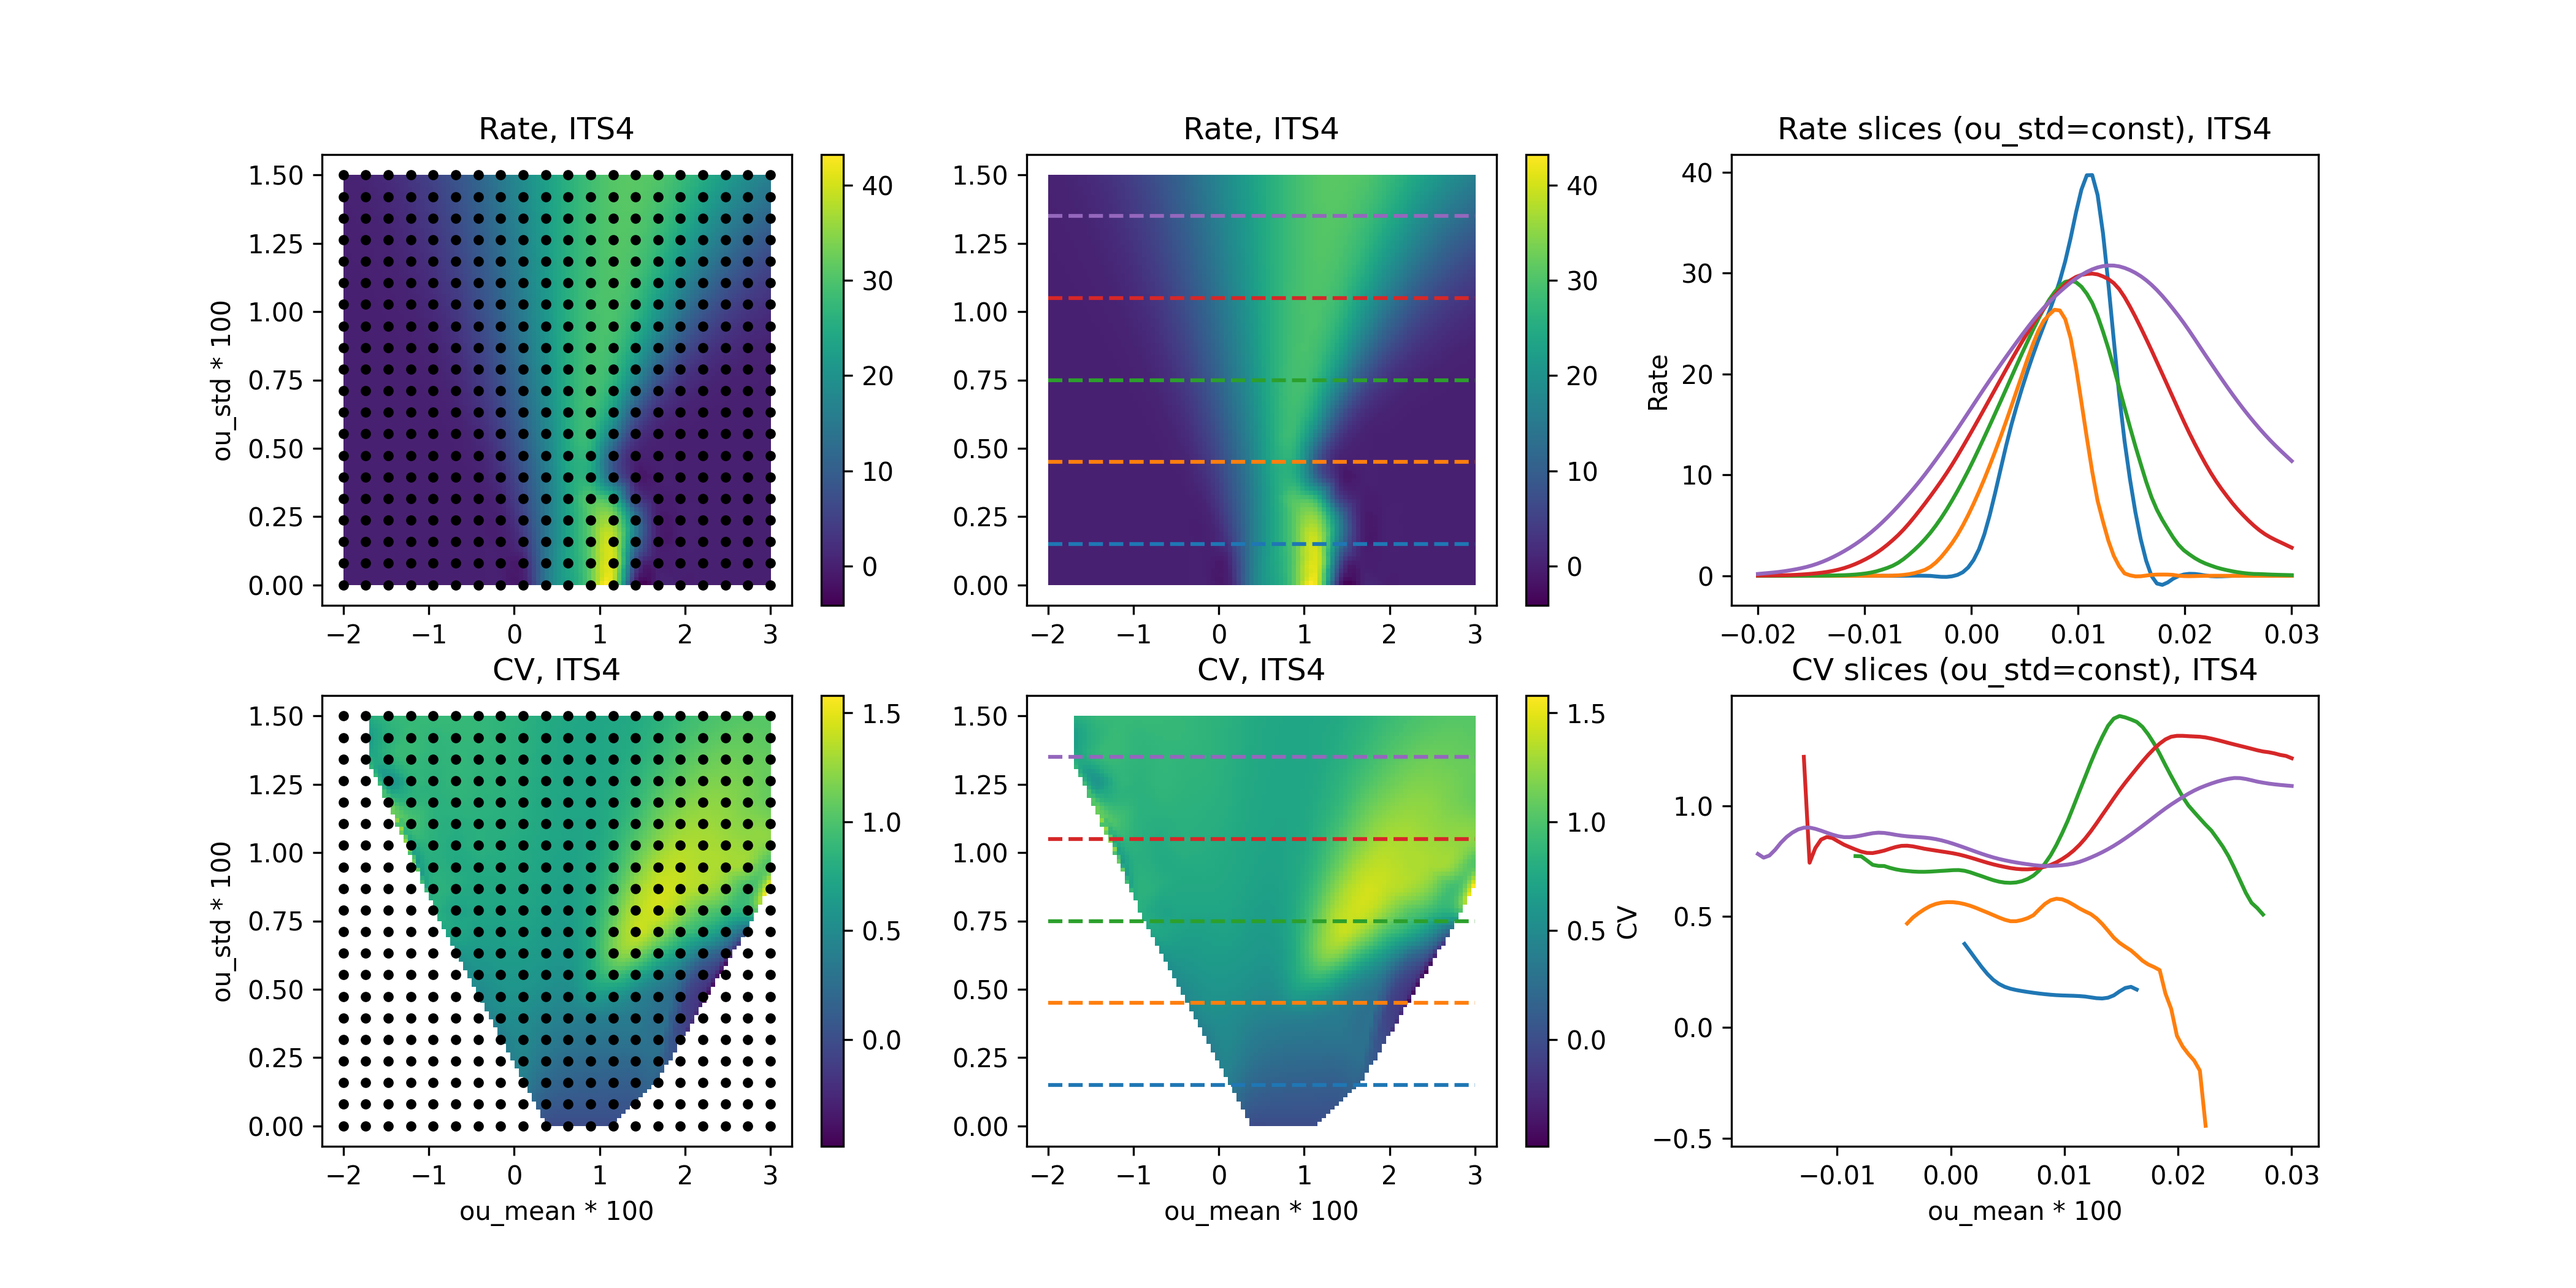
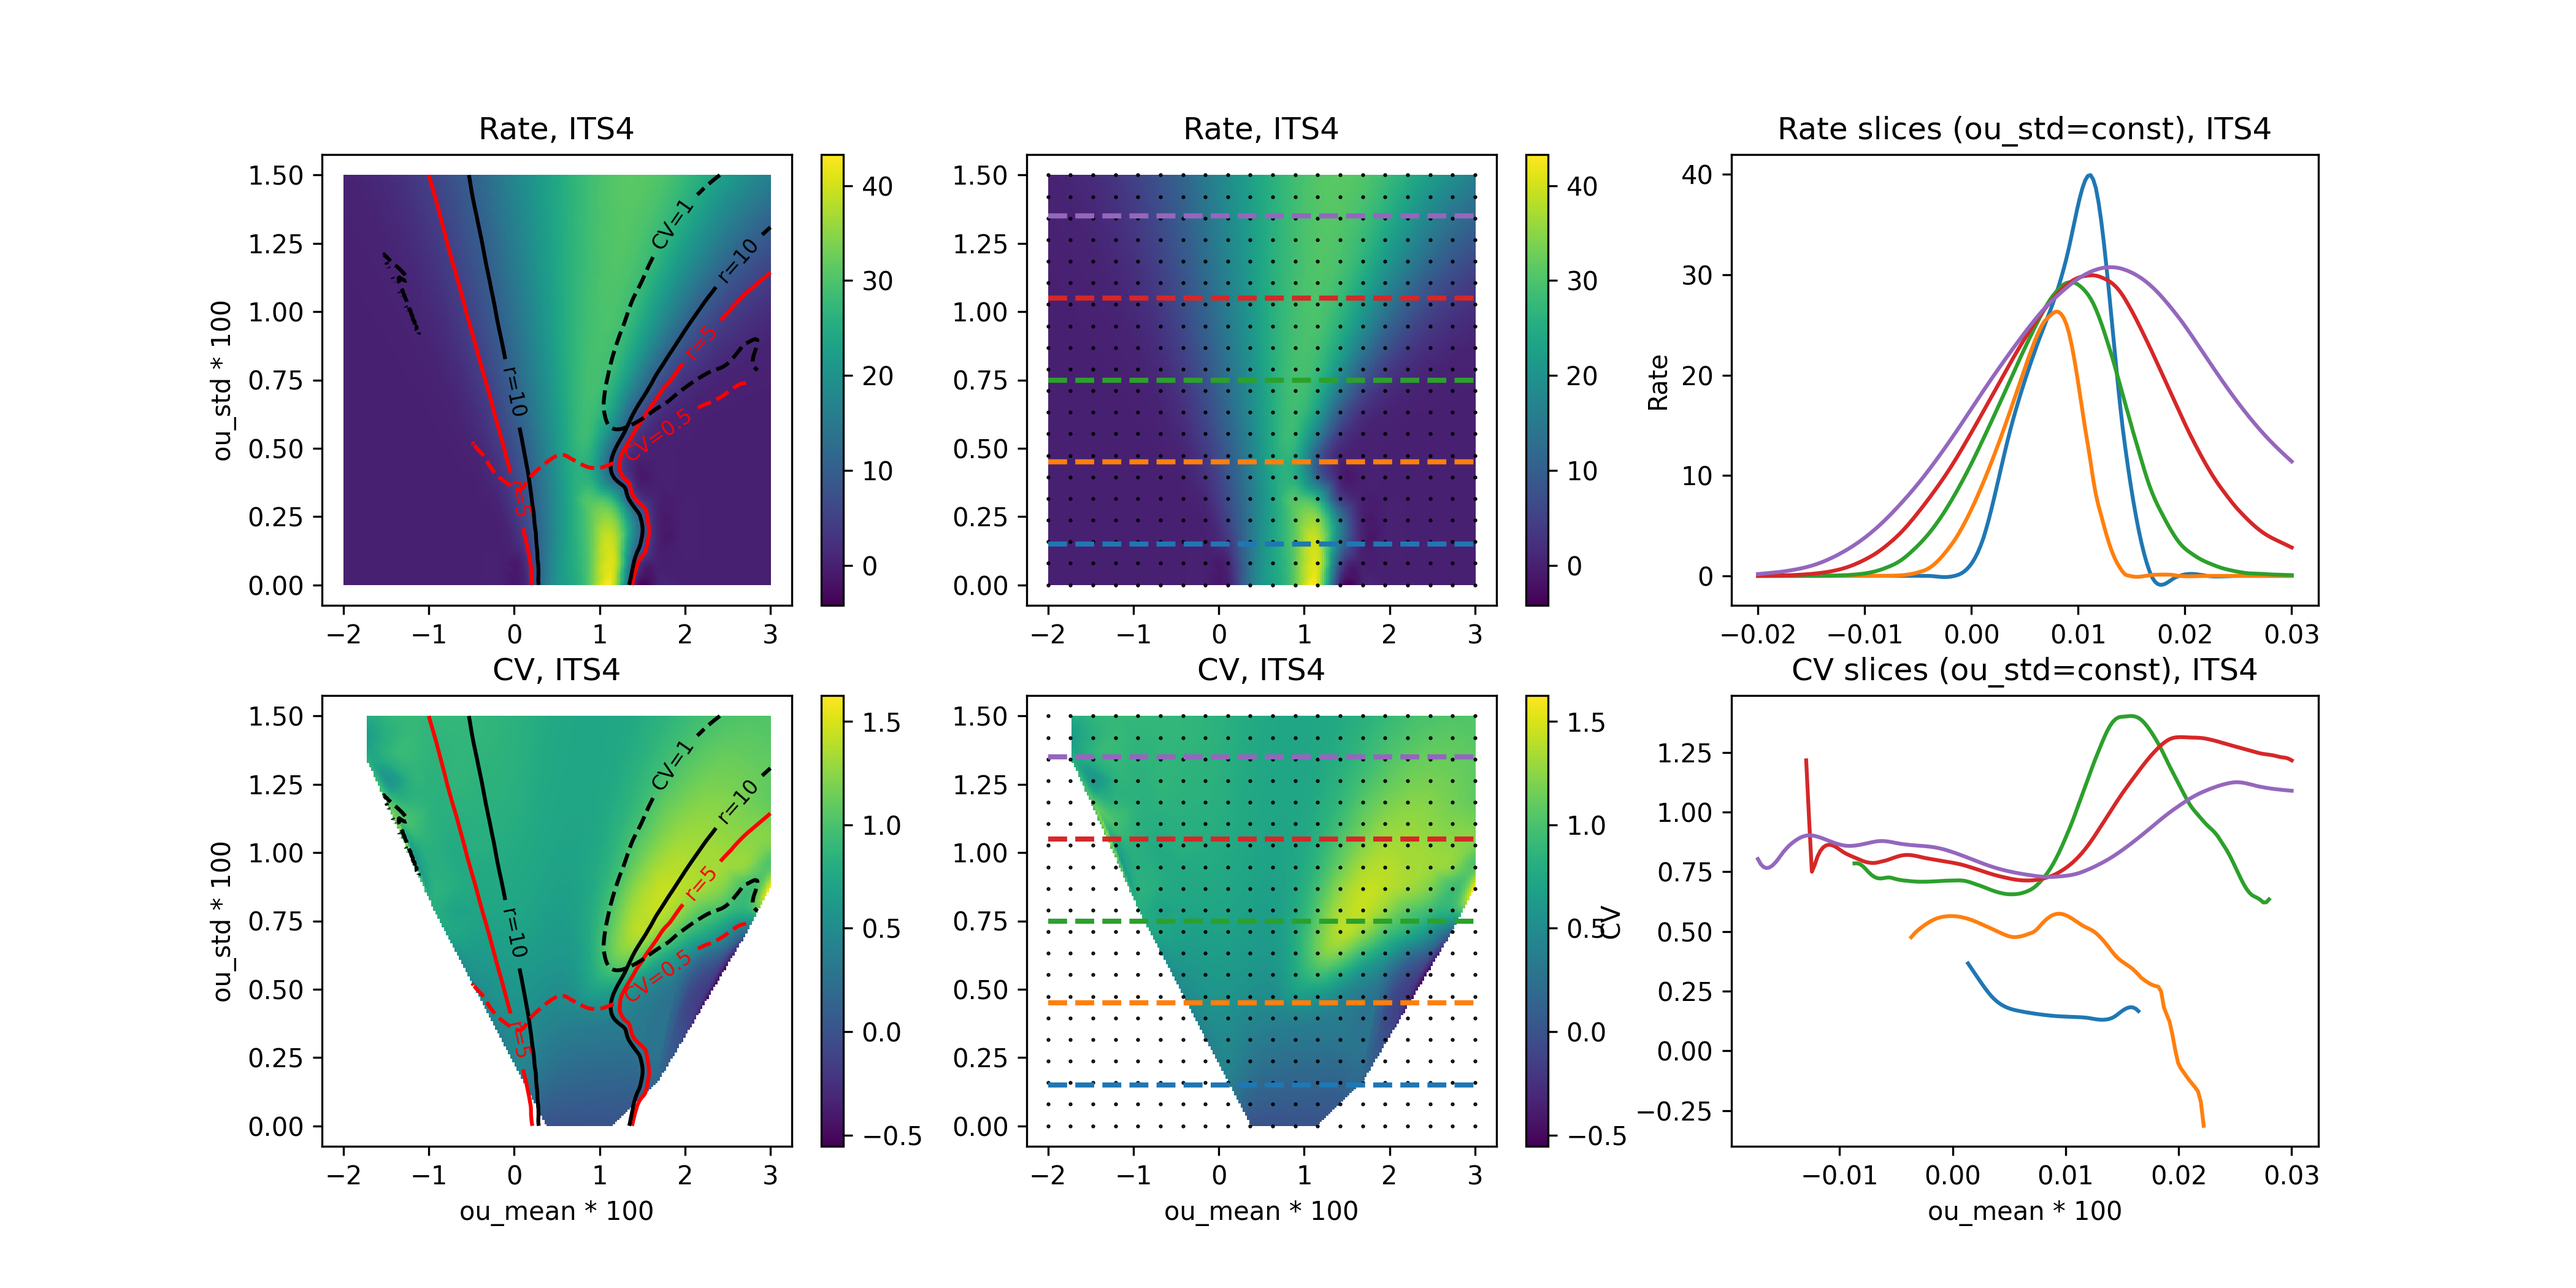
Implement plotting of rate and CV contours

diff --git a/analysis/ou_tuning/plot_rate_cv_grid.py b/analysis/ou_tuning/plot_rate_cv_grid.py
@@ -36,6 +36,30 @@ def plot_xr(Z: xr.DataArray, vmin=None, vmax=None,
     if colorbar:
         plt.colorbar()
 
+def plot_xr_contour(
+        Z: xr.DataArray,
+        name: str,
+        levels: List[float],
+        colors: List[str] | None = None,
+        style: str = '-',
+        xmult: int = 1,
+        ymult: int = 1
+        ) -> None:
+
+    def fmt_func(x):
+        if x == int(x): return f'{name}={int(x)}'
+        else: return f'{name}={x:.1f}'
+    
+    x = Z.coords[Z.dims[1]] * xmult
+    y = Z.coords[Z.dims[0]] * ymult
+
+    contours = plt.contour(
+        x, y, Z.values, linestyles=style,
+        levels=levels, colors=colors
+    )
+    plt.clabel(contours, inline=True, fontsize=8, 
+               fmt=fmt_func, rightside_up=True)
+
 def interpolate_to_xr(
         data_coords: List[Tuple[float, float]],  # (x, y),
         data_values: np.ndarray,
@@ -75,7 +99,10 @@ def interpolate_to_xr(
 def plot_rate_cv_grid(
         dirpath_exp: str | Path,
         npoints: int = 100,   # grid resolution
-        nslices: int = 5   # num. ou_std==const slices to plot
+        nslices: int = 5,   # num. ou_std==const slices to plot
+        show_grid: bool = True,
+        show_r_cv_contours: bool = False,
+        dirname_out: str = 'plots'
         ) -> None:
 
     # Read and parse batch result table
@@ -122,22 +149,34 @@ def plot_rate_cv_grid(
         for n, data_type in enumerate(['Rate', 'CV']):
             Z = data_interp[pop][data_type]
 
-            # 2D image with grid points marked
+            # 2D image with rate/CV contours 
             plt.subplot(2, 3, n * nx + 1)
             plot_xr(Z, xmult=xmult, ymult=xmult, margin=margin)
-            plt.plot(ou_mean, ou_std, 'k.')
+            if show_r_cv_contours:
+                plot_xr_contour(
+                    data_interp[pop]['Rate'], 'r', levels=[5, 10],
+                    colors=['r', 'k'], style='-',
+                    xmult=xmult, ymult=xmult
+                )
+                plot_xr_contour(
+                    data_interp[pop]['CV'], 'CV', levels=[0.5, 1],
+                    colors=['r', 'k'], style='--',
+                    xmult=xmult, ymult=xmult
+                )
             plt.title(f'{data_type}, {pop}')
             if n == ny - 1:
                 plt.xlabel(f'ou_mean * {xmult}')
             plt.ylabel(f'ou_std * {ymult}')
 
-            # 2D image with horiontal slicing lines
+            # 2D image with horiontal slicing lines and grid points
             plt.subplot(2, 3, n * nx + 2)
             plot_xr(Z, xmult=xmult, ymult=xmult, margin=margin)
+            if show_grid:
+                plt.plot(ou_mean, ou_std, 'k.', markersize=1)
             for ou_std_slice in ou_std_slices:
                 plt.plot([ou_mean.min(), ou_mean.max()],
                         [ou_std_slice * ymult] * 2,
-                        '--')
+                        '--', linewidth=2)
             plt.title(f'{data_type}, {pop}')
             if n == ny - 1:
                 plt.xlabel(f'ou_mean * {xmult}')
@@ -153,7 +192,7 @@ def plot_rate_cv_grid(
             plt.ylabel(data_type)
 
     # Folder for saving the figures
-    dirpath_out = dirpath_exp / 'plots'
+    dirpath_out = dirpath_exp / dirname_out
     os.makedirs(dirpath_out, exist_ok=True)
 
     #plt.ion()
